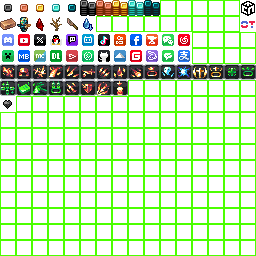
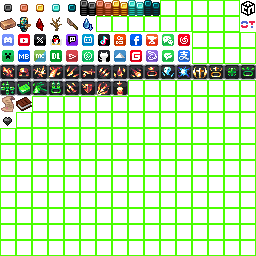
修改glyph_F0文件避免与隐藏之年文字显示冲突

Changed region(s): [[0.0, 0.375, 0.125, 0.5]]

diff --git a/磐石之旅BP/scripts/stone_heart/stone_heart_display.js b/磐石之旅BP/scripts/stone_heart/stone_heart_display.js
@@ -17,6 +17,6 @@ system.runInterval(() => {
       Math.min(1, Math.max(0, current / max)) * 50
     ) * 2;
 
-    player.onScreenDisplay.setActionBar(`!.${healthPercent}%`);
+    player.onScreenDisplay.setActionBar(`!.${healthPercent}%`);
   }
 }, 2);

diff --git a/磐石之旅BP/更新.md b/磐石之旅BP/更新.md
@@ -11,6 +11,7 @@
 - 镶髓石珠·夜视现在是头盔专属的镶髓石珠
 - 镶髓石珠·抗火现在是护腿专属的镶髓石珠
 - 修改镶髓石珠使用位置提示的文字颜色以与1.26.50的修改相同
+- 修改glyph_F0文件避免与隐藏之年文字显示冲突
 
 ## 修复
 
